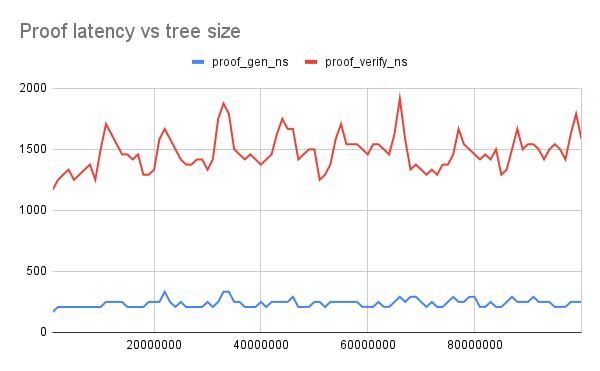
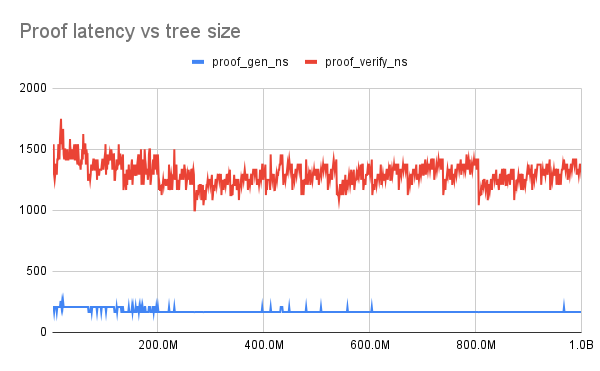
docs: fix pin_above_level doc, update graphs

diff --git a/src/storage/checkpoint.rs b/src/storage/checkpoint.rs
@@ -49,7 +49,7 @@ impl Default for CheckpointPolicy {
 /// Controls which tree levels are kept in memory vs mmap'd
 pub struct TieringConfig {
     /// Levels below this value have their committed chunks mmap'd after checkpoint.
-    /// Set to `usize::MAX` to never mmap (default: all in memory)
+    /// Set to `usize::MAX` to mmap all levels (default), `0` to keep everything in memory
     pub pin_above_level: usize,
 }
 

diff --git a/README.md b/README.md
@@ -135,7 +135,7 @@ tree.close().unwrap();
 - `OnClose`: checkpoint only on graceful close
 
 `TieringConfig` controls which levels stay in memory vs get mmap'd after checkpoint:
-- `pin_above_level`: levels below this value have their committed chunks mmap'd from data files after checkpoint. set to `0` to keep everything in memory (default: `usize::MAX`, all checkpointed chunks get mmap'd)
+- `pin_above_level`: levels below this value have their committed chunks mmap'd from data files after checkpoint. set to `usize::MAX` to mmap everything (default), `0` to keep everything in memory
 
 ### Tuning
 
@@ -197,23 +197,32 @@ Head over to https://rymnc.github.io/rotortree/benchmarks which has the latest b
 
 <!-- ANCHOR: devnote --> 
 
-there seems to be some performance variance with the storage feature enabled, assume due to some contention / outliers. the pure in-memory benchmark (tree_bench_parallel) exhibits much lesser variance, and achieves peak throughput upto ~140M leaves/sec; why would anyone need this much? i do not know myself. single threaded by far has the best performance characteristic in terms of variance though, useful to keep in mind if that is a constraint; trading off performance for predictability under load.
+the pure in-memory benchmark (tree_bench_parallel) exhibits lesser variance in the benchmarks, and achieves peak throughput upto ~190M leaves/sec; why would anyone need this much? i do not know myself. single threaded by far has the best performance characteristic in terms of variance though, useful to keep in mind if that is a constraint; trading off performance for predictability under load.
 
 <!-- ANCHOR_END: devnote --> 
 
 > [!NOTE]
 > There are more realistic benchmarks that simulate performance under load, i.e concurrent reads / proof generation + insertions 
 
-#### Proof Latency vs Tree size
+### Sample benchmark
+
+test bench: 
+- m4 pro, 14c, 48gig
+- fully mmap'd, i.e `TieringConfig::pin_above_level`: `usize::MAX`
+- 1B leaves inserted in 1M chunks
+- manual checkpoint after each chunk insertion
+
+#### Proof Latency vs Tree size 
 
 ![Proof Latency vs Tree size](./assets/proof_latency_vs_tree_size.png)
+
+we can see here that verification is almost constant, with proof generation varying based on snapshot acquisition cost
 
 #### Throughput vs Tree size
 
 ![Throughput vs Tree size](./assets/throughput_vs_tree_size.png)
 
-The dips noticed here are during checkpoints
-
+we can see here that the leaves insertion per second stays comfortably above **120M/sec**, with durable insertions around **5M/sec**. this is all dependent on the manual checkpointing, you can have the checkpointing run in the background too. realistically in a crash scenario everything not committed to level files will just be replayed from the wal.
 
 ## Future work
 
